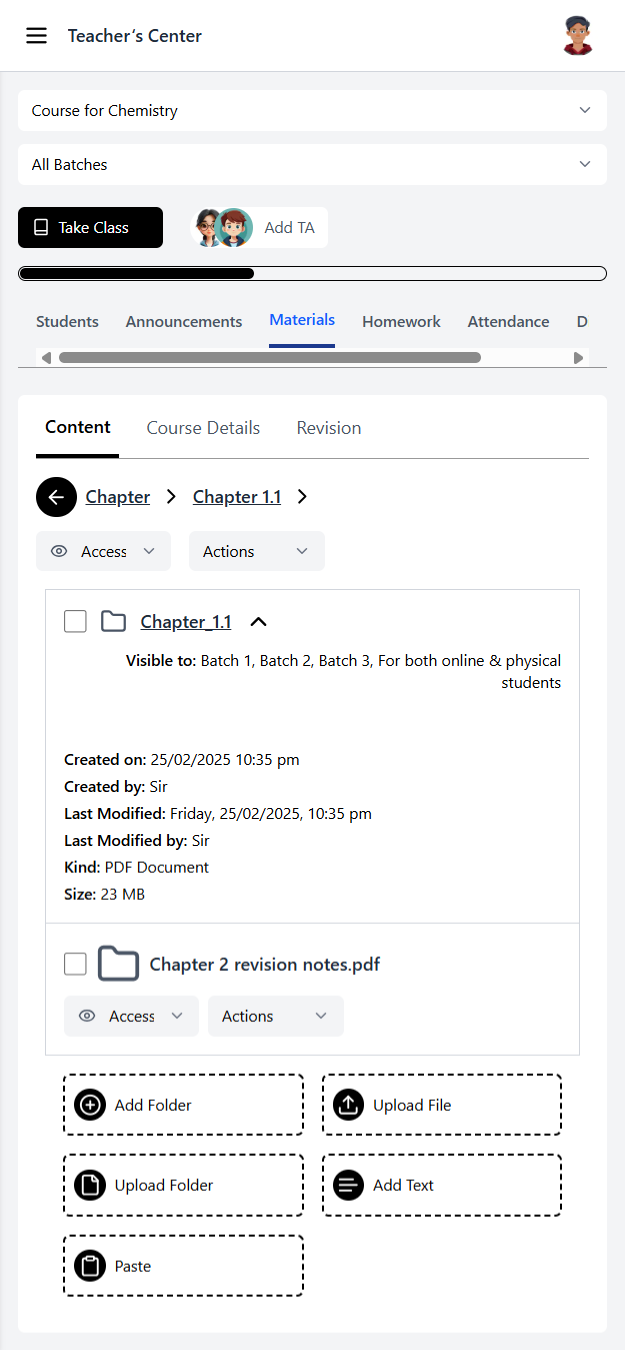
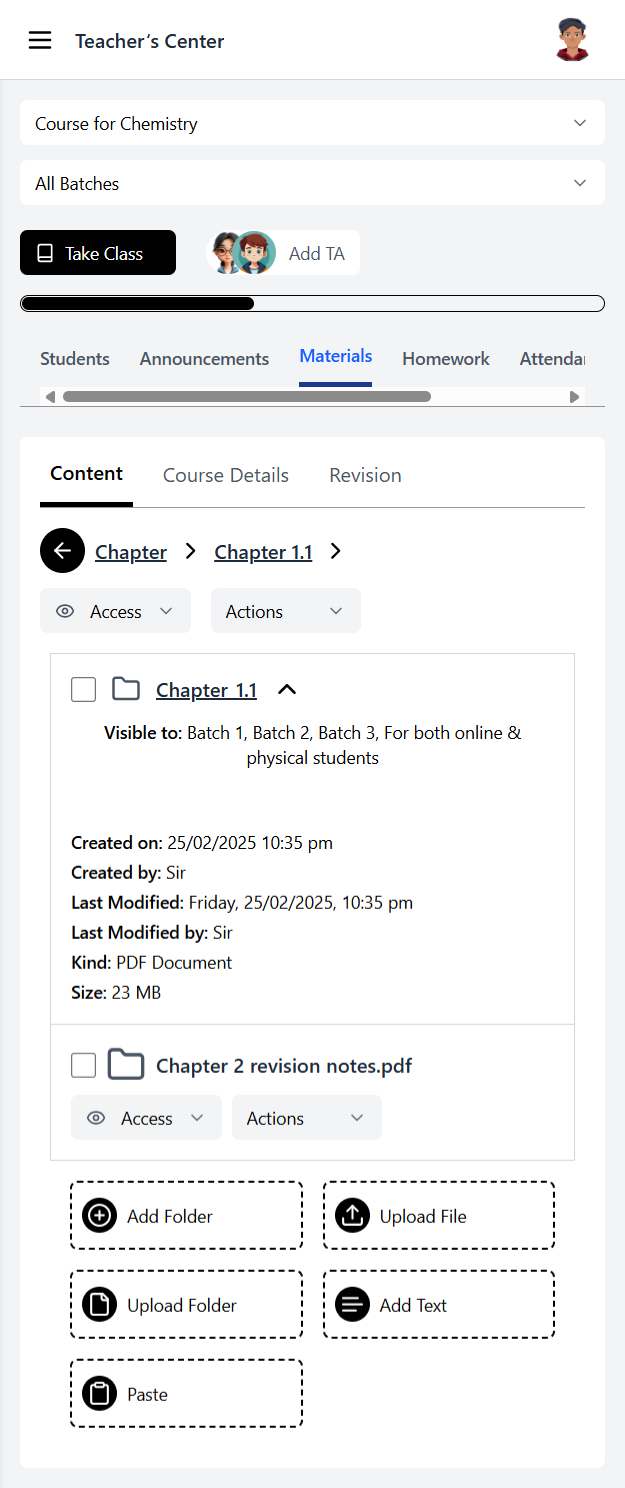
completed

diff --git a/src/components/FileDetails.tsx b/src/components/FileDetails.tsx
@@ -43,11 +43,11 @@ export default function FileDetails() {
           {files.map((file, index) => (
             <div
               key={index}
-              className={`grid grid-cols-1 sm:grid-cols-12 gap-4 ${
+              className={`grid grid-cols-1 xl:grid-cols-12 gap-4 ${
                 index !== files.length - 1 ? "border-b border-gray-200" : ""
               }`}
             >
-              <div className="col-span-12 sm:col-span-9  p-4  flex flex-col space-y-3">
+              <div className="col-span-12 xl:col-span-9  p-4  flex flex-col space-y-3">
                 <div className="flex items-center justify-between">
                   <div className="flex items-center space-x-3">
                     <input
@@ -95,14 +95,14 @@ export default function FileDetails() {
                     </div>
                   </div>
                 </div>
-                <div className="text-sm   mt-auto text-end">
+                <div className="text-sm   mt-auto xl:text-end text-center">
                   <p>
                     <span className="font-medium">Visible to:</span>{" "}
                     {file.visibility}
                   </p>
                 </div>
               </div>
-              <div className="col-span-12  p-4 sm:col-span-3 text-sm   space-y-1 lg:border-l-2 border-gray-300 sm:pl-5">
+              <div className="col-span-12  p-4 xl:col-span-3 text-sm   space-y-1 lg:border-l-2 border-gray-300 sm:pl-5">
                 <p>
                   <span className="font-medium">Created on:</span>{" "}
                   {file.created}
@@ -136,7 +136,7 @@ export default function FileDetails() {
             type="checkbox"
             className="h-5 w-5 text-blue-600 border-gray-300 rounded"
           />
-          <Folder className="h-10 w-10 text-gray-600" />
+          <Folder className="lg:h-10 h-8 lg:w-10 w-8 text-gray-600" />
           <span className="text-gray-800 font-medium ">
             Chapter 2 revision notes.pdf
           </span>

diff --git a/src/components/FileManagerButtons.tsx b/src/components/FileManagerButtons.tsx
@@ -2,7 +2,7 @@ import { PlusCircle, Upload, File, Text, Clipboard } from "lucide-react";
 
 const FileManagerButtons = () => {
   return (
-    <div className=" grid grid-cols-2 md:grid-cols-3 lg:grid-cols-5 gap-4 lg:gap-10 lg:px-10 px-2 py-4 ">
+    <div className=" grid grid-cols-2 md:grid-cols-3 lg:grid-cols-4 xl:grid-cols-5 gap-4 xl:gap-10 lg:px-10 px-2 py-4 ">
       <button className="flex items-center space-x-2 border-2 border-dashed rounded-md px-2 lg:px-6 py-3 lg:py-4 text-sm  ">
         <div className="p-1 rounded-full cursor-pointer  bg-black text-white">
           <PlusCircle size={20} />

diff --git a/README.md b/README.md
@@ -8,11 +8,11 @@ Explore the live project [here](https://dashbooard-ui.vercel.app/).
 
 ## Preview
 
-![Dashboard UI Desktop Preview](public/preview.png)  
 _Desktop view of the dashboard interface._
+![Dashboard UI Desktop Preview](public/preview.png)  
 
-![Dashboard UI Mobile Preview](public/mobile-preview.png)  
 _Mobile view showcasing responsive design._
+![Dashboard UI Mobile Preview](public/mobile-preview.png)  
 
 ## Features
 
